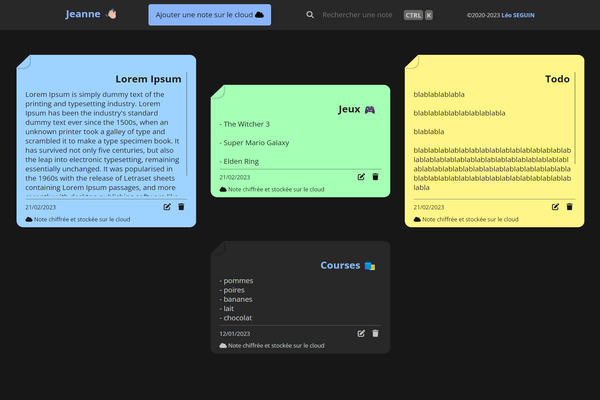
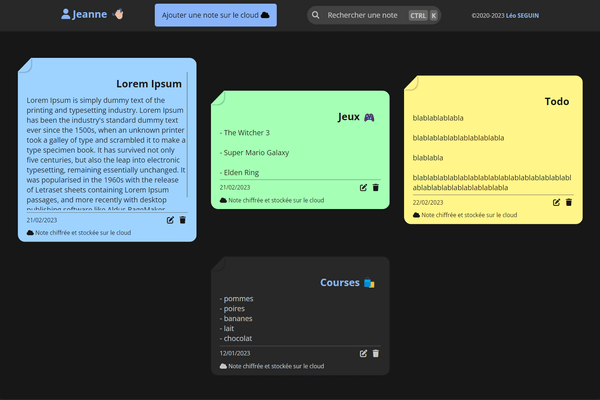
Improved UI/UX

diff --git a/src/assets/css/style.css b/src/assets/css/style.css
@@ -1,1 +1,1 @@
-@keyframes wave-animation{0%,100%,60%{transform:rotate(0)}10%,30%{transform:rotate(14deg)}20%{transform:rotate(-8deg)}40%{transform:rotate(-4deg)}50%{transform:rotate(10deg)}}@font-face{font-family:"OpenSans";font-style:normal;font-weight:400;font-display:swap;src:url("../../../../assets/fonts/OpenSans.woff2") format("woff2")}@font-face{font-family:"OpenSans";font-style:normal;font-weight:700;font-display:swap;src:url("../../../../assets/fonts/OpenSans-700.woff2") format("woff2")}@font-face{font-family:"OpenSans";font-style:italic;font-weight:400;font-display:swap;src:url("../../../../assets/fonts/OpenSans-italic.woff2") format("woff2")}html{background:#171717;color:#c6c6c6;-webkit-tap-highlight-color:rgba(0,0,0,0)}*{font-family:"OpenSans";margin:0;padding:0;box-sizing:border-box}::-webkit-scrollbar{width:3px;height:3px}::-webkit-scrollbar-thumb{background:rgba(100,100,100,.5)}h1{display:inline-block;font-size:1.4rem;color:#8ab4f8}a{color:#8ab4f8;text-decoration:none;display:inline;font-weight:700}a:hover{color:#9ec3ff}p{color:#8ab4f8}kbd{background-color:#666;border-radius:5px;color:#c6c6c6;margin:0 2px;font-size:.9rem;font-weight:700;padding:2px 4px}abbr{border-bottom:1px dotted #8ab4f8;cursor:help}abbr:hover::after{content:attr(data-title);box-shadow:2px 2px 2px rgba(0,0,0,.2);position:absolute;background:#282828;color:#8ab4f8;padding:3px 6px;font-size:.8rem;z-index:1;text-align:left;margin-top:20px;margin-left:-75px}nav{left:0;right:0;top:0;text-align:center;position:fixed;background:#282828;color:#c6c6c6;z-index:2;-webkit-user-select:none;user-select:none;box-shadow:2px 2px 4px #171717}nav div{margin:10px 2rem;display:inline-block}nav button{display:inline-block;padding:0 1rem;margin:0}nav .search-input{background:#282828;width:300px;max-height:40px;border-radius:24px;display:inline-block}nav .search-input i{font-size:1rem;margin:0 5px}nav .search-input input{font-size:1rem;background:#282828;color:#c6c6c6;height:40px;width:180px;border:none;border-radius:24px;margin-right:5px;padding:0 10px}nav .search-input input:focus{outline:2px solid #8ab4f8}nav .copyright{font-size:.8rem}main{max-width:100vw;margin:8rem auto 2rem;padding:0 2rem;display:flex;justify-content:center;align-items:center;flex-wrap:wrap;gap:2rem}input,textarea,select{height:50px;width:100%;font-size:17px;padding:0 1rem;border:2px solid #666}input:focus,textarea:focus,select:focus{outline:#8ab4f8 solid 2px}textarea{height:250px;resize:none;padding:10px}button{width:100%;height:50px;color:#000;border:none;font-size:1rem;border-radius:5px;background:#8ab4f8;transition:.2s}button:disabled{color:#fff;background:#666}button:hover{background:#9ec3ff}button:focus{background:#8ab4f8}p.welcome{font-size:1.2rem}p.welcome .nomUser{font-weight:700;font-style:italic}.note{display:flex;flex-direction:column;justify-content:space-between;border-radius:1rem;clip-path:polygon(30px 0, 100% 0, 100% 100%, 0 100%, 0 30px);transition:clip-path .5s;width:400px;max-height:400px;padding:30px 20px 10px;background:#282828}.note:hover{clip-path:polygon(0 0, 100% 0, 100% 100%, 0 100%, 0 0)}.note:after{content:"";top:0;left:0;width:30px;height:30px;border-radius:0 0 1rem;transition:transform .4s}.note:hover:after{transform:translate(-100%, -100%)}.note p{font-size:1.4rem;text-align:right;font-weight:700;margin:10px}.note .details{max-height:300px;overflow-y:auto;overflow-wrap:break-word;overflow-x:hidden}.note .bottom-content{-webkit-user-select:none;user-select:none;margin-top:5px;border-top:1px solid #666}.note.Noir{background:#282828}.note.Rouge{background:#ffa1a1}.note.Jaune{background:#fff588}.note.Vert{background:#a5ffb4}.note.Bleu{background:#9ed3ff}.note.Violet{background:#c7a6ff}.linkp{text-align:center;font-weight:700;color:#8ab4f8}.linkp:hover{color:#9ec3ff}.note:after{box-shadow:2px 2px 2px rgba(0,0,0,.2);position:absolute}.note,.settings,.settings i{position:relative}.content header i,.linkp,.settings i,button{cursor:pointer}.content header i,.note span,.settings i,input,textarea,select{color:#c6c6c6}.note.Jaune p,.note.Jaune span,.note.Jaune i,.note.Bleu p,.note.Bleu span,.note.Bleu i,.note.Violet p,.note.Violet span,.note.Violet i,.note.Rouge p,.note.Rouge span,.note.Rouge i,.note.Vert p,.note.Vert span,.note.Vert i{color:#171717}.bottom-content,.popup,header{display:flex;align-items:center;justify-content:space-between}.popup .content,input,textarea,select{background:#282828;border-radius:5px}.bottom-content{padding:5px 0}.bottom-content span{color:#c6c6c6;font-size:.8rem}.settings i{margin:0 4px}.settings i:hover{opacity:.8}.info{text-align:justify;-webkit-user-select:none;user-select:none;max-width:400px}.connect-box,.connect-popup-box,.creer-box,.gestion-popup-box,.popup-box{position:fixed;top:0;left:0;z-index:2;height:100%;width:100%;background:rgba(0,0,0,.5)}.connect-box .popup,.connect-popup-box .popup,.creer-box .popup,.gestion-popup-box .popup,.popup-box .popup{position:absolute;top:50%;left:50%;z-index:3;width:100%;max-width:400px;justify-content:center;transform:translate(-50%, -50%) scale(1)}.connect-box,.connect-popup-box,.creer-box,.gestion-popup-box,.popup,.popup-box{display:none;pointer-events:none;transition:.2s}.connect-box.show,.connect-box.show .popup,.connect-popup-box.show,.connect-popup-box.show .popup,.creer-box.show,.creer-box.show .popup,.gestion-popup-box.show,.gestion-popup-box.show .popup,.popup-box.show,.popup-box.show .popup{display:flex;pointer-events:auto}.connect-box.show .popup,.connect-popup-box.show .popup,.creer-box.show .popup,.gestion-popup-box.show .popup,.popup-box.show .popup{transform:translate(-50%, -50%) scale(1)}.content{min-width:500px}.content header{padding:20px}.content form,.sedeconnecter,.supprimerCompte,.creercompte{margin:20px}.row{margin-bottom:20px}.supprimerCompte{color:#ff8a8a}.supprimerCompte:hover{color:#ffb4b4}.status{-webkit-user-select:none;user-select:none;font-size:.8rem}.wave{animation-name:wave-animation;animation-duration:2.5s;animation-iteration-count:infinite;transform-origin:70% 70%;display:inline-block;font-size:1.5rem}@media(max-width: 1100px){main{margin:15rem auto 1rem;padding:0 1rem;gap:1rem}kbd{display:none}.connect-box .popup,.connect-popup-box .popup,.creer-box .popup,.gestion-popup-box .popup,.popup-box .popup{max-width:94vw;min-width:94vw}.popup .content{max-width:94vw;min-width:94vw}.note{max-width:94vw;min-width:94vw}}/*# sourceMappingURL=style.css.map */
+@keyframes wave-animation{0%,100%,60%{transform:rotate(0)}10%,30%{transform:rotate(14deg)}20%{transform:rotate(-8deg)}40%{transform:rotate(-4deg)}50%{transform:rotate(10deg)}}@font-face{font-family:"OpenSans";font-style:normal;font-weight:400;font-display:swap;src:url("../../../../assets/fonts/OpenSans.woff2") format("woff2")}@font-face{font-family:"OpenSans";font-style:normal;font-weight:700;font-display:swap;src:url("../../../../assets/fonts/OpenSans-700.woff2") format("woff2")}@font-face{font-family:"OpenSans";font-style:italic;font-weight:400;font-display:swap;src:url("../../../../assets/fonts/OpenSans-italic.woff2") format("woff2")}html{background:#171717;color:#c6c6c6;-webkit-tap-highlight-color:rgba(0,0,0,0)}*{font-family:"OpenSans";margin:0;padding:0;box-sizing:border-box}::-webkit-scrollbar{width:3px;height:3px}::-webkit-scrollbar-thumb{background:rgba(100,100,100,.5)}h1{display:inline-block;font-size:1.4rem;color:#8ab4f8}a{color:#8ab4f8;text-decoration:none;display:inline;font-weight:700}a:hover{color:#9ec3ff}p{color:#8ab4f8}kbd{background-color:#666;border-radius:5px;color:#c6c6c6;margin:0 2px;font-size:.9rem;font-weight:700;padding:2px 4px}abbr{border-bottom:1px dotted #8ab4f8;cursor:help}abbr:hover::after{content:attr(data-title);box-shadow:2px 2px 2px rgba(0,0,0,.2);position:absolute;background:#282828;color:#8ab4f8;padding:3px 6px;font-size:.8rem;z-index:1;text-align:left;margin-top:20px;margin-left:-75px}nav{left:0;right:0;top:0;text-align:center;position:fixed;background:#282828;color:#c6c6c6;z-index:2;-webkit-user-select:none;user-select:none;box-shadow:2px 2px 4px #171717}nav div{margin:10px 2rem;display:inline-block}nav button{display:inline-block;padding:0 1rem;margin:0}nav .search-input{background:#424242;width:300px;max-height:40px;border-radius:24px;display:inline-block}nav .search-input ::placeholder{color:#c6c6c6}nav .search-input i{font-size:1rem;margin:0 5px}nav .search-input input{font-size:1rem;background:#424242;color:#c6c6c6;height:40px;width:180px;border:none;border-radius:24px;margin-right:5px;padding:0 10px}nav .search-input input:focus{outline:2px solid #8ab4f8}nav .copyright{font-size:.8rem}main{max-width:100vw;margin:8rem auto 2rem;padding:0 2rem;display:flex;justify-content:center;align-items:center;flex-wrap:wrap;gap:2rem}input,textarea,select{height:50px;width:100%;font-size:17px;padding:0 1rem;border:2px solid #666}input:focus,textarea:focus,select:focus{outline:#8ab4f8 solid 2px}textarea{height:250px;resize:none;padding:10px}button{width:100%;height:50px;color:#000;border:none;font-size:1rem;border-radius:5px;background:#8ab4f8;transition:.2s}button:disabled{color:#fff;background:#666}button:hover{background:#9ec3ff}button:focus{background:#8ab4f8}p.welcome{font-size:1.2rem}p.welcome .nomUser{font-weight:700;font-style:italic}.note{display:flex;flex-direction:column;justify-content:space-between;border-radius:1rem;clip-path:polygon(30px 0, 100% 0, 100% 100%, 0 100%, 0 30px);transition:clip-path .5s;width:400px;max-height:400px;padding:30px 20px 10px;background:#282828}.note:hover{clip-path:polygon(0 0, 100% 0, 100% 100%, 0 100%, 0 0)}.note:after{content:"";top:0;left:0;width:30px;height:30px;border-radius:0 0 1rem;transition:transform .4s}.note:hover:after{transform:translate(-100%, -100%)}.note p{font-size:1.4rem;text-align:right;font-weight:700;margin:10px}.note .details{max-height:300px;overflow-y:auto;overflow-wrap:break-word;overflow-x:hidden}.note .bottom-content{-webkit-user-select:none;user-select:none;margin-top:5px;border-top:1px solid #666}.note.Noir{background:#282828}.note.Rouge{background:#ffa1a1}.note.Jaune{background:#fff588}.note.Vert{background:#a5ffb4}.note.Bleu{background:#9ed3ff}.note.Violet{background:#c7a6ff}.linkp{text-align:center;font-weight:700;color:#8ab4f8}.linkp:hover{color:#9ec3ff}.note:after{box-shadow:2px 2px 2px rgba(0,0,0,.2);position:absolute}.note,.settings,.settings i{position:relative}.content header i,.linkp,.settings i,button{cursor:pointer}.content header i,.note span,.settings i,input,textarea,select{color:#c6c6c6}.note.Jaune p,.note.Jaune span,.note.Jaune i,.note.Bleu p,.note.Bleu span,.note.Bleu i,.note.Violet p,.note.Violet span,.note.Violet i,.note.Rouge p,.note.Rouge span,.note.Rouge i,.note.Vert p,.note.Vert span,.note.Vert i{color:#171717}.bottom-content,.popup,header{display:flex;align-items:center;justify-content:space-between}.popup .content,input,textarea,select{background:#282828;border-radius:5px}.bottom-content{padding:5px 0}.bottom-content span{color:#c6c6c6;font-size:.8rem}.settings i{margin:0 4px}.settings i:hover{opacity:.8}.info{text-align:justify;-webkit-user-select:none;user-select:none;max-width:400px}.connect-box,.connect-popup-box,.creer-box,.gestion-popup-box,.popup-box{position:fixed;top:0;left:0;z-index:2;height:100%;width:100%;background:rgba(0,0,0,.5)}.connect-box .popup,.connect-popup-box .popup,.creer-box .popup,.gestion-popup-box .popup,.popup-box .popup{position:absolute;top:50%;left:50%;z-index:3;width:100%;max-width:400px;justify-content:center;transform:translate(-50%, -50%) scale(1)}.connect-box,.connect-popup-box,.creer-box,.gestion-popup-box,.popup,.popup-box{display:none;pointer-events:none;transition:.2s}.connect-box.show,.connect-box.show .popup,.connect-popup-box.show,.connect-popup-box.show .popup,.creer-box.show,.creer-box.show .popup,.gestion-popup-box.show,.gestion-popup-box.show .popup,.popup-box.show,.popup-box.show .popup{display:flex;pointer-events:auto}.connect-box.show .popup,.connect-popup-box.show .popup,.creer-box.show .popup,.gestion-popup-box.show .popup,.popup-box.show .popup{transform:translate(-50%, -50%) scale(1)}.content{min-width:500px}.content header{padding:20px}.content form,.sedeconnecter,.supprimerCompte,.creercompte{margin:20px}.row{margin-bottom:20px}.supprimerCompte{color:#ff8a8a}.supprimerCompte:hover{color:#ffb4b4}.status{-webkit-user-select:none;user-select:none;font-size:.8rem}.wave{animation-name:wave-animation;animation-duration:2.5s;animation-iteration-count:infinite;transform-origin:70% 70%;display:inline-block;font-size:1.5rem}@media(max-width: 1100px){nav{margin-top:1rem;border-radius:1rem}main{margin:18rem auto 1rem;padding:0 1rem;gap:1rem}kbd{display:none}.connect-box .popup,.connect-popup-box .popup,.creer-box .popup,.gestion-popup-box .popup,.popup-box .popup{max-width:94vw;min-width:94vw}.popup .content{max-width:94vw;min-width:94vw}.note{max-width:94vw;min-width:94vw}}/*# sourceMappingURL=style.css.map */

diff --git a/src/assets/sass/style.scss b/src/assets/sass/style.scss
@@ -145,11 +145,15 @@ nav {
   }
 
   .search-input {
-    background: #282828;
+    background: #424242;
     width: 300px;
     max-height: 40px;
     border-radius: 24px;
     display: inline-block;
+
+    ::placeholder {
+      color: #c6c6c6;
+    }
 
     i {
       font-size: 1rem;
@@ -158,7 +162,7 @@ nav {
 
     input {
       font-size: 1rem;
-      background: #282828;
+      background: #424242;
       color: #c6c6c6;
       height: 40px;
       width: 180px;
@@ -518,8 +522,13 @@ select {
 }
 
 @media(max-width: 1100px) {
+  nav {
+    margin-top: 1rem;
+    border-radius: 1rem;
+  }
+
   main {
-    margin: 15rem auto 1rem;
+    margin: 18rem auto 1rem;
     padding: 0 1rem;
     gap: 1rem;
   }

diff --git a/src/index.php b/src/index.php
@@ -25,7 +25,10 @@ session_start();
     <?php if (isset($_SESSION["nom"])) { ?>
     <div>
       <h1 class="welcome">
-        <span class="gestionCompte linkp" tabindex="0"><?php echo $_SESSION["nom"]; ?></span>
+        <span class="gestionCompte linkp" tabindex="0">
+          <i class="fa-solid fa-user"></i>
+          <?php echo $_SESSION["nom"]; ?>
+        </span>
         <span class="wave">👋🏼</span>
       </h1>
     </div>
@@ -171,10 +174,10 @@ session_start();
             <div class="row">
               <input id="mdpCreerValid" placeholder="Retaper votre mot de passe" type="password" minlength="6" maxlength="50" aria-label="mdp">
             </div>
-            <p>
+            <div class="row">
               <i class="fa-solid fa-circle-info"></i>
               Vos notes ainsi que votre mot de passe sont chiffrés et sockés dans une base de données sécurisée, aucune donnée personnelle n'est collectée (RGPD)
-            </p>
+            </div>
             <button id="submitCreer" type="submit" aria-label="Créer mon compte">Créer mon compte</button>
           </form>
         </div>

diff --git a/src/assets/php/getNotes.php b/src/assets/php/getNotes.php
@@ -6,7 +6,7 @@ if (!isset($_SESSION["nom"])) {
 } else {
   require_once "config.php";
   require_once "functions.php";
-  $query = $PDO->prepare("SELECT * FROM notes WHERE user=:CurrentUser ORDER BY id DESC");
+  $query = $PDO->prepare("SELECT * FROM `TABLE_NAME` WHERE user=:CurrentUser ORDER BY id DESC");
   $query->execute([':CurrentUser' => htmlspecialchars($_SESSION["nom"], ENT_QUOTES)]);
   while ($row = $query->fetch(PDO::FETCH_ASSOC)) {
     $title = $row['titre'];
